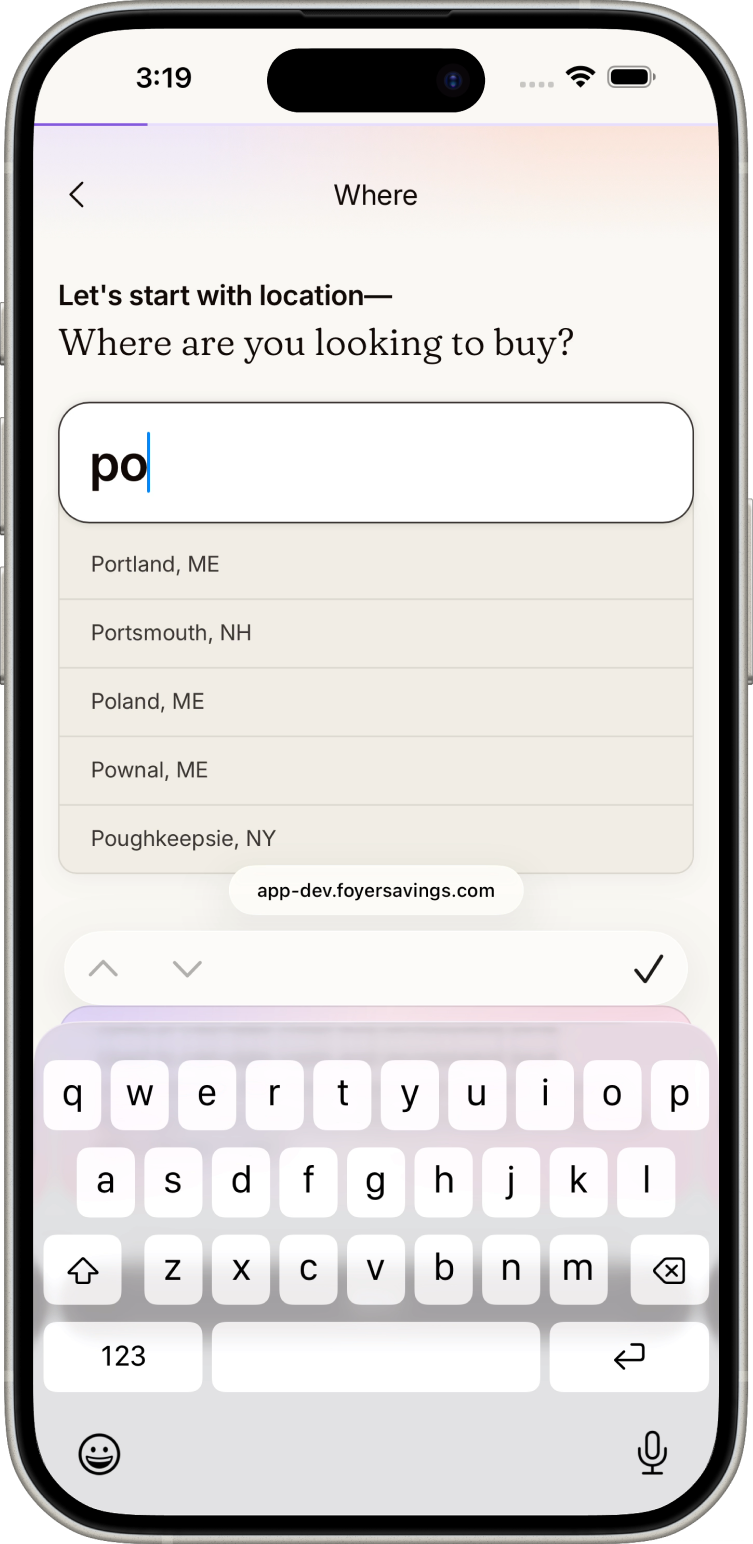
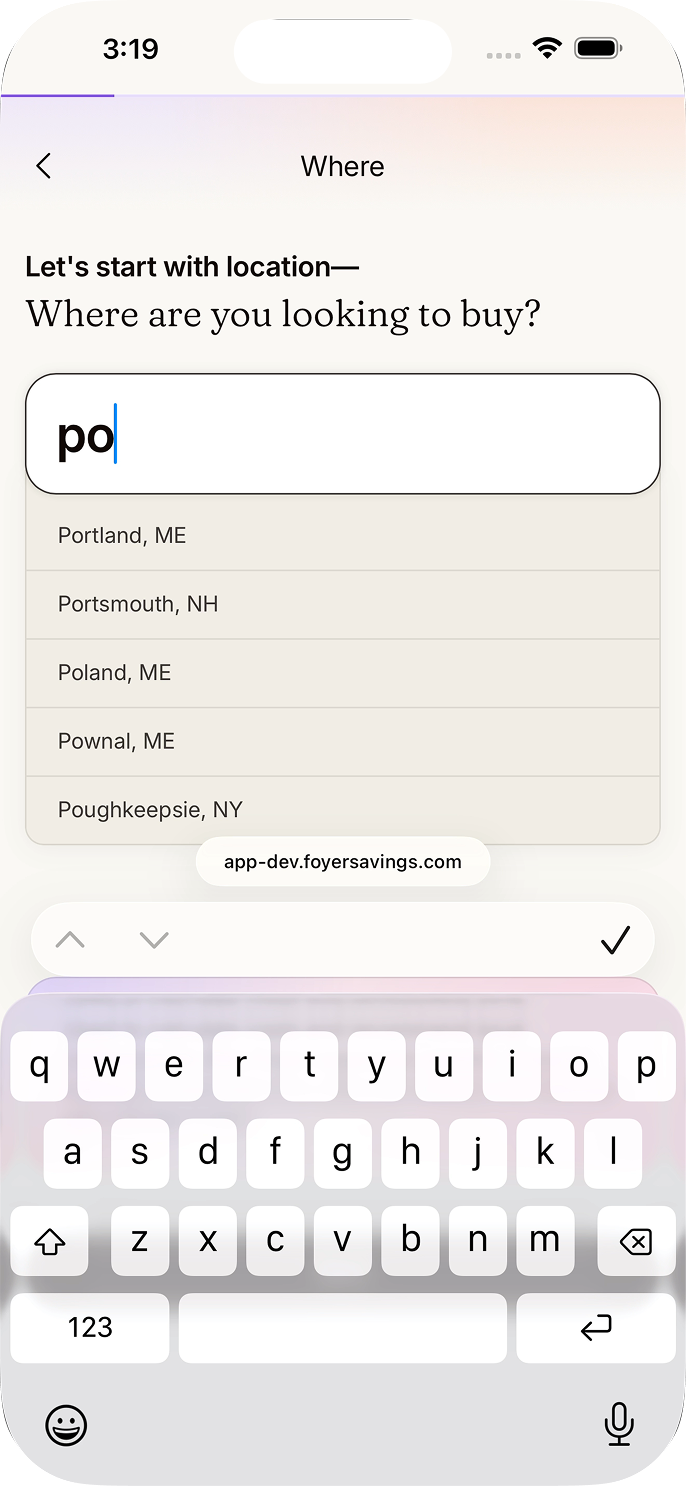
Frame every deck phone with the shared iPhone mask
The mockup cards drew their phone chrome three different ways: bezels
baked into the screenshots, a CSS border on the Welcome screen video,
and phone-mask.png on one onboarding clip. The baked-in bezels carried
opaque white corners, which showed as white boxes once the Foyer cards
took a gradient background.

Now every phone goes through phoneFrame and the mask. The screenshots
are re-exported at 2x with no bezel, sized to the mask's screen cutout,
and the mask's own white fill is gone. A phone__device wrapper holds the
377:772 ratio so the frame can't squash when a column runs narrow, and
the screen is positioned off the cutout's measured insets so it scales
with the card.

phoneBorder was left with no users, so it goes, along with its branch in
MockupCard and its rule in deck.css. The Foyer mockup cards pick up the
new gradient tokens; the reviews slide keeps lavender-peach.

Changed region(s): [[0.0, 0.0, 1.0, 1.0], [0.0918, 0.4953, 0.6735, 0.5882], [0.0918, 0.4024, 0.3367, 0.4643]]

diff --git a/src/data/slides.ts b/src/data/slides.ts
@@ -7,7 +7,6 @@ export interface SlideMedia {
   type?: "image" | "video";
   /** Bleed the device mockup off the right edge (project intros). */
   bleed?: boolean;
-  phoneBorder?: boolean;
   /** Round the asset's own corners, in cqw, so it scales with the card. */
   rounded?: boolean;
   /** Overlay the iPhone bezel on a bezel-less asset (phone-mask.png). */
@@ -51,7 +50,7 @@ export interface Slide {
   /** Force a single-image mockup to contain (centred + padded) over cover-fill. */
   fit?: "cover" | "contain";
   /** Fill behind the card, overriding the theme. A token reference
-   *  (`var(--gradient-lavender-peach)`), never a literal color. */
+   *  (`var(--gradient-linear-purple)`), never a literal color. */
   background?: string;
   /** Vestigial: position on the retired home highlights deck. Nothing reads it. */
   onIndex?: number;
@@ -101,13 +100,13 @@ export const slides: Slide[] = [
     onIndex: 2,
     heading: "Welcome screen",
     tasks: "Animation • design • development",
-    background: "var(--gradient-lavender-peach)",
+    background: "var(--gradient-linear-purple)",
     media: [
       {
         src: "/work/foyer-app.mp4",
         alt: "Foyer app",
         type: "video",
-        phoneBorder: true,
+        phoneFrame: true,
       },
     ],
   },
@@ -116,13 +115,26 @@ export const slides: Slide[] = [
     section: "foyer",
     kind: "mockup",
     heading: "Onboarding",
+    background: "var(--gradient-linear-purple)",
     onIndex: 5,
     tasks:
       "User flow • performance optimization • design • interaction patterns • component development",
     media: [
-      { src: "/work/foyer-1-a.png", alt: "Onboarding: choosing where you want to buy" },
-      { src: "/work/foyer-1-c.png", alt: "Onboarding: setting a target home price and down payment" },
-      { src: "/work/foyer-1-d.png", alt: "Onboarding: picking what you want the most help with" },
+      {
+        src: "/work/foyer-1-a.png",
+        alt: "Onboarding: choosing where you want to buy",
+        phoneFrame: true,
+      },
+      {
+        src: "/work/foyer-1-c.png",
+        alt: "Onboarding: setting a target home price and down payment",
+        phoneFrame: true,
+      },
+      {
+        src: "/work/foyer-1-d.png",
+        alt: "Onboarding: picking what you want the most help with",
+        phoneFrame: true,
+      },
       {
         src: "/work/foyer-home-goal.mp4",
         alt: "Home goal animation",
@@ -136,6 +148,7 @@ export const slides: Slide[] = [
     section: "foyer",
     kind: "mockup",
     heading: "Foyer × Zillow",
+    background: "var(--gradient-linear-sand)",
     tasks: "Partnership concepting • design • hero animation • content",
     media: [
       {
@@ -151,12 +164,29 @@ export const slides: Slide[] = [
     section: "foyer",
     kind: "mockup",
     heading: "Tools and calculators",
+    background: "var(--gradient-linear-purple)",
     tasks: "Interaction patterns • design • content • development",
     media: [
-      { src: "/work/foyer-3-a.png", alt: "Tools index with home goal summary" },
-      { src: "/work/foyer-3-b.png", alt: "Affordability calculator: monthly debt input" },
-      { src: "/work/foyer-3-c.png", alt: "Affordability calculator: result with DTI scale" },
-      { src: "/work/foyer-3-d.png", alt: "Affordability calculator: mortgage inputs" },
+      {
+        src: "/work/foyer-3-a.png",
+        alt: "Tools index with home goal summary",
+        phoneFrame: true,
+      },
+      {
+        src: "/work/foyer-3-b.png",
+        alt: "Affordability calculator: monthly debt input",
+        phoneFrame: true,
+      },
+      {
+        src: "/work/foyer-3-c.png",
+        alt: "Affordability calculator: result with DTI scale",
+        phoneFrame: true,
+      },
+      {
+        src: "/work/foyer-3-d.png",
+        alt: "Affordability calculator: mortgage inputs",
+        phoneFrame: true,
+      },
     ],
   },
   {

diff --git a/src/styles/deck.css b/src/styles/deck.css
@@ -376,41 +376,41 @@
   border-radius: var(--radius-sm);
 }
 
-.slide__shot .isPhoneBorder {
-  border: 0.8cqw solid var(--color-ink);
-  border-radius: 3cqw;
-}
 .slide__shot .isRounded {
   border-radius: 4cqw;
 }
 
 .slide__shot .phone {
+  container-type: size;
+  width: 100%;
+  height: 100%;
   display: grid;
   place-items: center;
-  height: 100%;
-  max-width: 100%;
-  max-height: 100%;
 }
-.slide__shot .phone > * {
-  grid-area: 1 / 1;
-  min-width: 0;
-  min-height: 0;
+.slide__shot .phone__device {
+  position: relative;
+  filter: var(--shadow-device);
+  height: min(100cqh, 100cqw * 772 / 377);
+  aspect-ratio: 377 / 772;
 }
 .slide__shot .phone__frame {
-  display: block;
-  max-width: 100%;
-  max-height: 100%;
-  width: auto;
-  height: auto;
+  position: relative;
+  width: 100%;
+  height: 100%;
   border-radius: 0;
   pointer-events: none;
   z-index: 1;
 }
 .slide__shot .phone__screen {
-  width: auto;
-  height: 85%;
+  position: absolute;
+  top: 1.94%;
+  left: 4.51%;
+  width: 90.72%;
+  height: 96.12%;
+  max-width: none;
+  max-height: none;
   object-fit: cover;
-  border-radius: 14% / 6.8%;
+  border-radius: 13% / 6%;
 }
 
 .deck__card.slide--mockup {
@@ -426,6 +426,7 @@
   aspect-ratio: 16 / 9;
   border-radius: 0 0 var(--radius-card) var(--radius-card);
   overflow: hidden;
+  background: var(--slide-bg);
 }
 .slide--dark .slide__frame {
   background: var(--slide-bg, var(--color-notblack));

diff --git a/src/styles/tokens.css b/src/styles/tokens.css
@@ -47,7 +47,11 @@
   --color-accent: var(--accent-500);
   --color-accent-hover: var(--accent-600);
   --color-highlight: color-mix(in srgb, var(--butter-300) 52%, transparent);
-  --color-highlight-soft: color-mix(in srgb, var(--butter-300) 26%, transparent);
+  --color-highlight-soft: color-mix(
+    in srgb,
+    var(--butter-300) 26%,
+    transparent
+  );
   --color-warning: var(--warning-500);
   --color-warning-hover: var(--warning-600);
 
@@ -82,6 +86,8 @@
     #f9f0eb 55%,
     #fbefe9
   );
+  --gradient-linear-purple: linear-gradient(0deg, #3f1e89 0%, #835adc 100%);
+  --gradient-linear-sand: linear-gradient(180deg, #f1ede5 0%, #e6e4e0 100%);
 
   --font-sans:
     -apple-system, BlinkMacSystemFont, "Segoe UI", Roboto, Helvetica, Arial,
@@ -152,6 +158,10 @@
   --elevation-3:
     0 16px 40px rgba(var(--shadow-rgb), 0.12),
     0 4px 10px rgba(var(--shadow-rgb), 0.08);
+
+  --shadow-device:
+    drop-shadow(0 2cqw 4cqw rgba(var(--shadow-rgb), 0.18))
+    drop-shadow(0 0.5cqw 1cqw rgba(var(--shadow-rgb), 0.12));
 
   --duration-fast: 150ms;
   --duration-base: 300ms;
